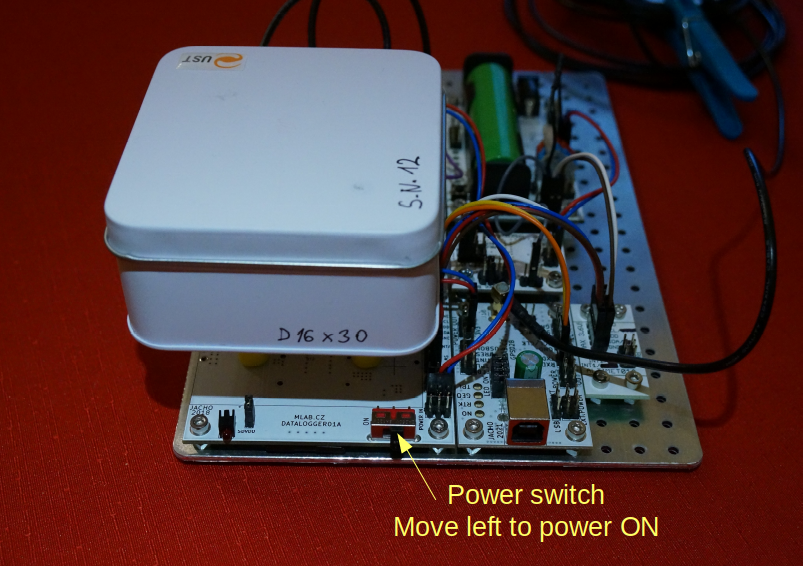
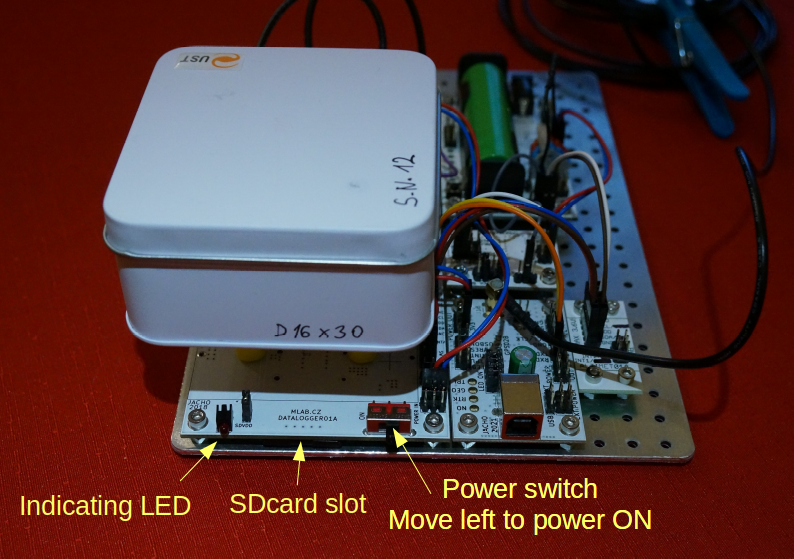
Improve SDcard readout documentation.

diff --git a/doc/README.md b/doc/README.md
@@ -20,16 +20,16 @@ Následně každých 10sekund blikne červená LED na levo od vypínače, což i
 ## Získávání dat
 
 GEODOS dovede data na SDkartu zaznamenávat velmi dlouho. Šest měsíců záznamu odpovídá přibližně 500MB dat. Běžné velikosti SDkaret umožňují kontinuální záznam řádově v rocích provozu. Z tohoto důvodu je GEODOS vybaven LoRa telemetrií, aby bylo možno přibližně monitorovat jeho funkčnost.  
-Používat GEODOS tímto způsobem ale není úplně rozumné, neboť tato vzdálená telemetrie není schopna monitorovat kvalitu dat. Je tak dobré data manuálně stahovat buď pravidelně, nebo na základě výskytu významných událostí. 
+Používat GEODOS tímto způsobem ale není úplně rozumné, neboť tato vzdálená telemetrie není schopna monitorovat kvalitu dat. Je tak dobré data manuálně stahovat buď pravidelně, nebo na základě výskytu významných událostí.
 
 ## Vypnutí přístroje a vyčtení dat
 
 Díky způsobu fungování, kdy přístroj zaznamenává na SDkartu jednou za 10 sekund je vhodné vypnutí provést tak, že **počkáme na dvojbliknutí červené LED vlevo od vypínače a následně vypínačem vypneme napájení**.
-Tento postup minimalizuje možnost poškození souborového systému na SDkartě nedokončeným zápisem. 
+Tento postup minimalizuje možnost poškození souborového systému na SDkartě nedokončeným zápisem.
 
 Následně je možná SDkartu vyjmout zatáhnutím nehtem (SDkarta je umístěna v prostoru mezi vypínačem a indikační LED).
 
-![SDcard removing](/doc/src/img/GEODOS_power_switch.png)
+![SDcard removing](/doc/src/img/GEODOS_SDcard_pull-out.jpg)
 
 SDkartu lze přečíst v běžné čtečce SDkaret. Vyzkoušeným typem je například [Kingston USB 3.0 High-Speed Card Reader](https://www.kingston.com/us/memory-card-readers/usb-3-0-high-speed-media-reader)
 
